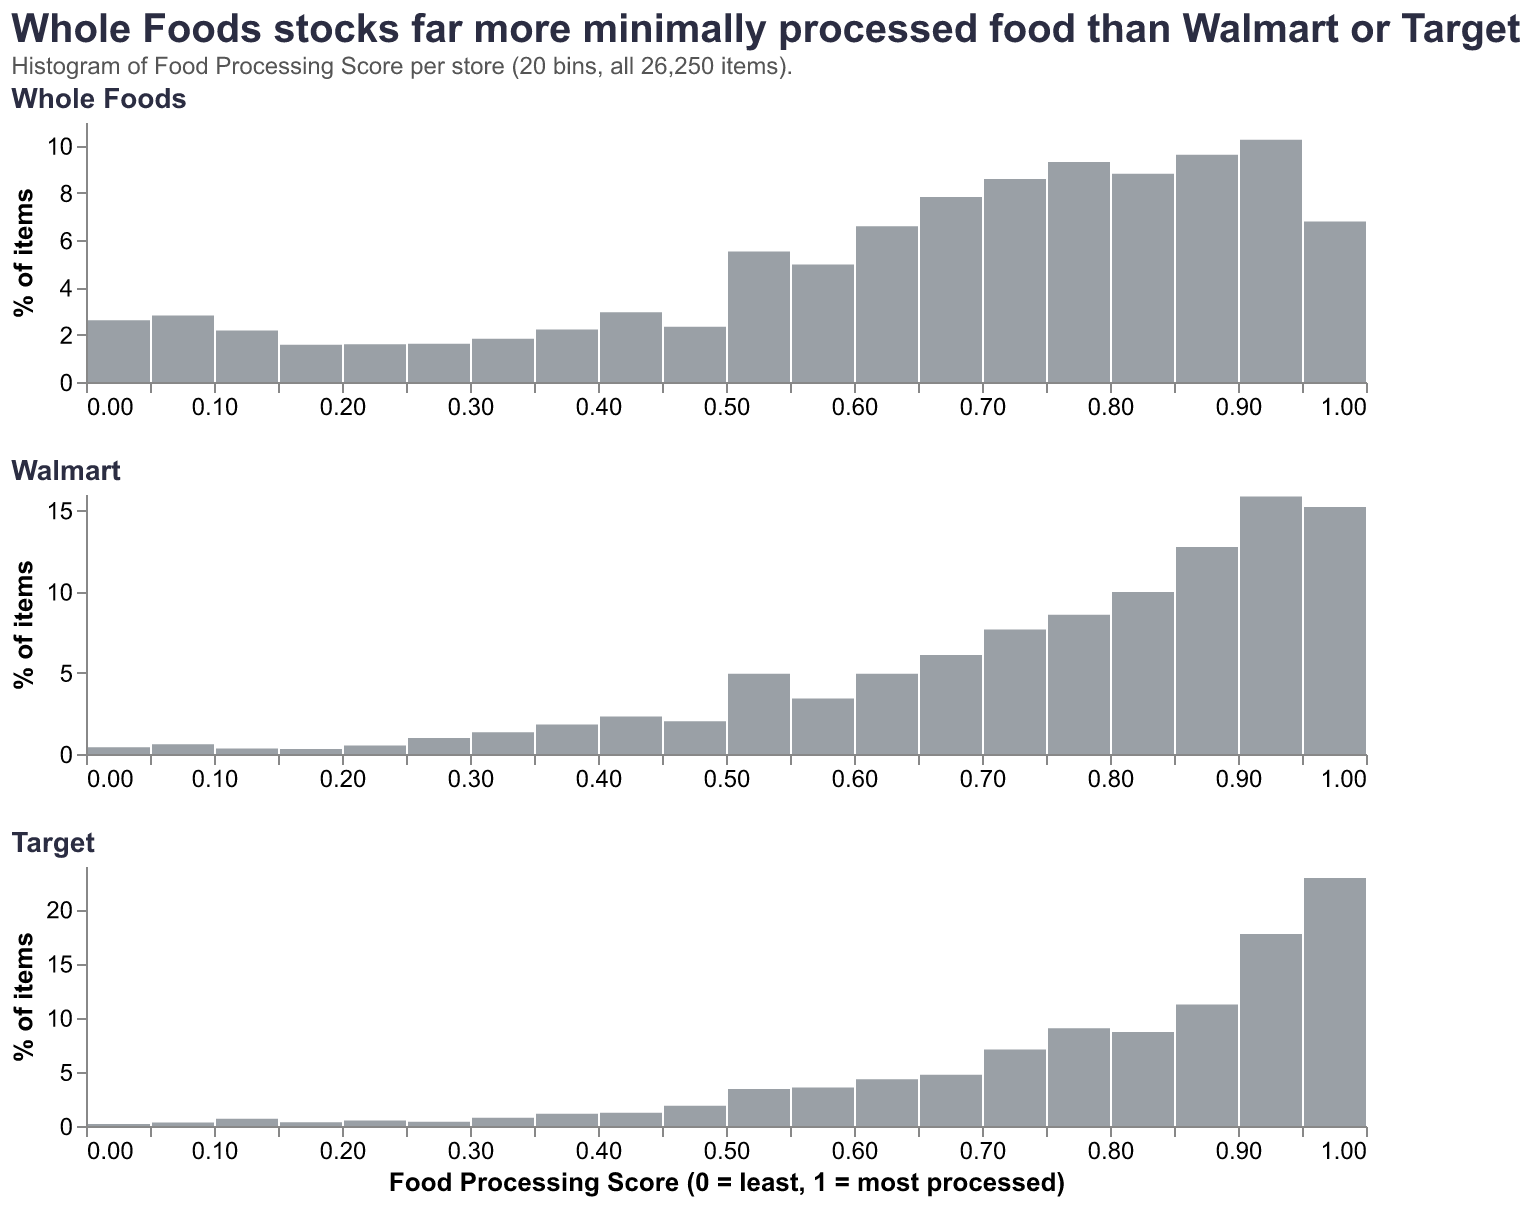
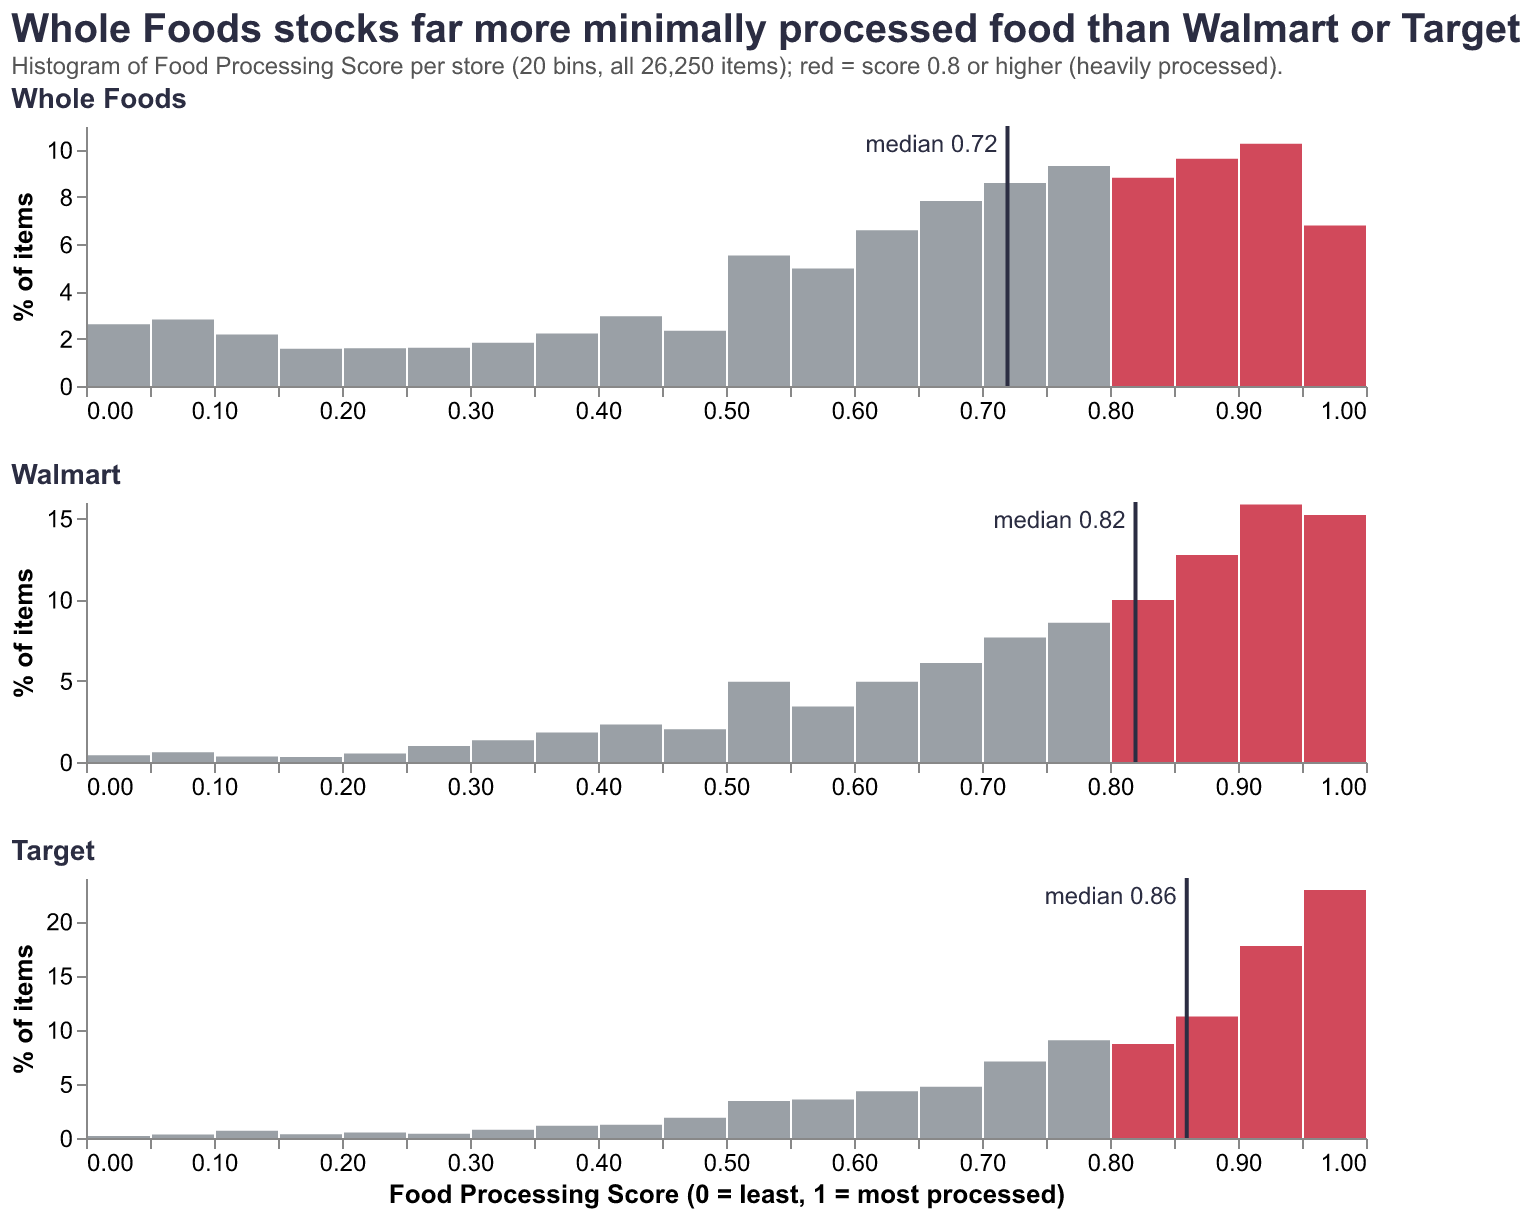
Project 1: mark store medians and heavily processed bins on plot 2

diff --git a/Project-1/project1/store_plot.py b/Project-1/project1/store_plot.py
@@ -5,14 +5,20 @@ import altair as alt
 import pandas as pd
 
 from project1.data import STORE_LABELS, STORE_ORDER
-from project1.theme import DARK, GREY, apply_theme
+from project1.theme import ACCENT, DARK, GREY, apply_theme
+
+# Scores at or above this are drawn in the accent color as "heavily processed".
+HEAVY_THRESHOLD: float = 0.8
 
 
-def build_store_plot(histogram: pd.DataFrame, n_items: int) -> alt.TopLevelMixin:
+def build_store_plot(
+    histogram: pd.DataFrame, medians: pd.DataFrame, n_items: int
+) -> alt.TopLevelMixin:
     """Stack one histogram per store, sharing the processing-score axis.
 
     Args:
         histogram: Output of :func:`project1.data.store_histogram`.
+        medians: Output of :func:`project1.data.store_medians`.
         n_items: Number of products behind the histograms, quoted in the subtitle.
 
     Returns:
@@ -22,9 +28,9 @@ def build_store_plot(histogram: pd.DataFrame, n_items: int) -> alt.TopLevelMixin
     panels: list[alt.Chart] = []
     for i, label in enumerate(labels):
         is_last = i == len(labels) - 1
-        panel = (
+        bars = (
             alt.Chart(histogram[histogram["store_label"] == label])
-            .mark_bar(color=GREY)
+            .mark_bar()
             .encode(
                 x=alt.X(
                     "lo:Q",
@@ -33,16 +39,34 @@ def build_store_plot(histogram: pd.DataFrame, n_items: int) -> alt.TopLevelMixin
                 ),
                 x2="hi:Q",
                 y=alt.Y("share:Q", title="% of items"),
+                color=alt.condition(
+                    f"datum.lo >= {HEAVY_THRESHOLD}", alt.value(ACCENT), alt.value(GREY)
+                ),
             )
-            .properties(
+        )
+        median = medians[medians["store_label"] == label]
+        rule = (
+            alt.Chart(median)
+            .mark_rule(color=DARK, strokeWidth=2)
+            .encode(x="med:Q")
+        )
+        caption = (
+            alt.Chart(median)
+            .mark_text(align="right", dx=-5, baseline="top", color=DARK, fontSize=12)
+            .encode(x="med:Q", y=alt.value(4), text="text:N")
+        )
+        panels.append(
+            alt.layer(bars, rule, caption).properties(
                 width=640,
                 height=130,
                 title=alt.TitleParams(label, anchor="start", fontSize=14, color=DARK),
             )
         )
-        panels.append(panel)
     title = alt.TitleParams(
         "Whole Foods stocks far more minimally processed food than Walmart or Target",
-        subtitle=f"Histogram of Food Processing Score per store (20 bins, all {n_items:,} items).",
+        subtitle=(
+            f"Histogram of Food Processing Score per store (20 bins, all {n_items:,} items); "
+            f"red = score {HEAVY_THRESHOLD} or higher (heavily processed)."
+        ),
     )
     return apply_theme(alt.vconcat(*panels).properties(title=title))

diff --git a/Project-1/project1/__main__.py b/Project-1/project1/__main__.py
@@ -9,6 +9,7 @@ from project1.data import (
     load_grocerydb,
     log_linear_trend,
     store_histogram,
+    store_medians,
 )
 from project1.price_plot import build_price_plot
 from project1.store_plot import build_store_plot
@@ -28,7 +29,7 @@ def main() -> None:
     trend, price_ratio = log_linear_trend(summary)
     print(f"each +0.1 processing score multiplies price per calorie by {price_ratio:.2f}")
     save(build_price_plot(summary, trend), "plot1_price_vs_processing.png")
-    save(build_store_plot(store_histogram(df), len(df)), "plot2_processing_by_store.png")
+    save(build_store_plot(store_histogram(df), store_medians(df), len(df)), "plot2_processing_by_store.png")
 
 
 if __name__ == "__main__":

diff --git a/Project-1/project1/data.py b/Project-1/project1/data.py
@@ -105,3 +105,23 @@ def store_histogram(df: pd.DataFrame, n_bins: int = 20) -> pd.DataFrame:
                 }
             )
     return pd.DataFrame(rows)
+
+
+def store_medians(df: pd.DataFrame) -> pd.DataFrame:
+    """Median processing score for each store.
+
+    Args:
+        df: Raw GroceryDB table.
+
+    Returns:
+        Columns ``store_label``, ``med`` and ``text`` (a ready-made annotation).
+    """
+    meds = df.groupby("store")["FPro"].median().round(2)
+    out = pd.DataFrame(
+        {
+            "store_label": [STORE_LABELS[s] for s in STORE_ORDER],
+            "med": [meds[s] for s in STORE_ORDER],
+        }
+    )
+    out["text"] = "median " + out["med"].astype(str)
+    return out
